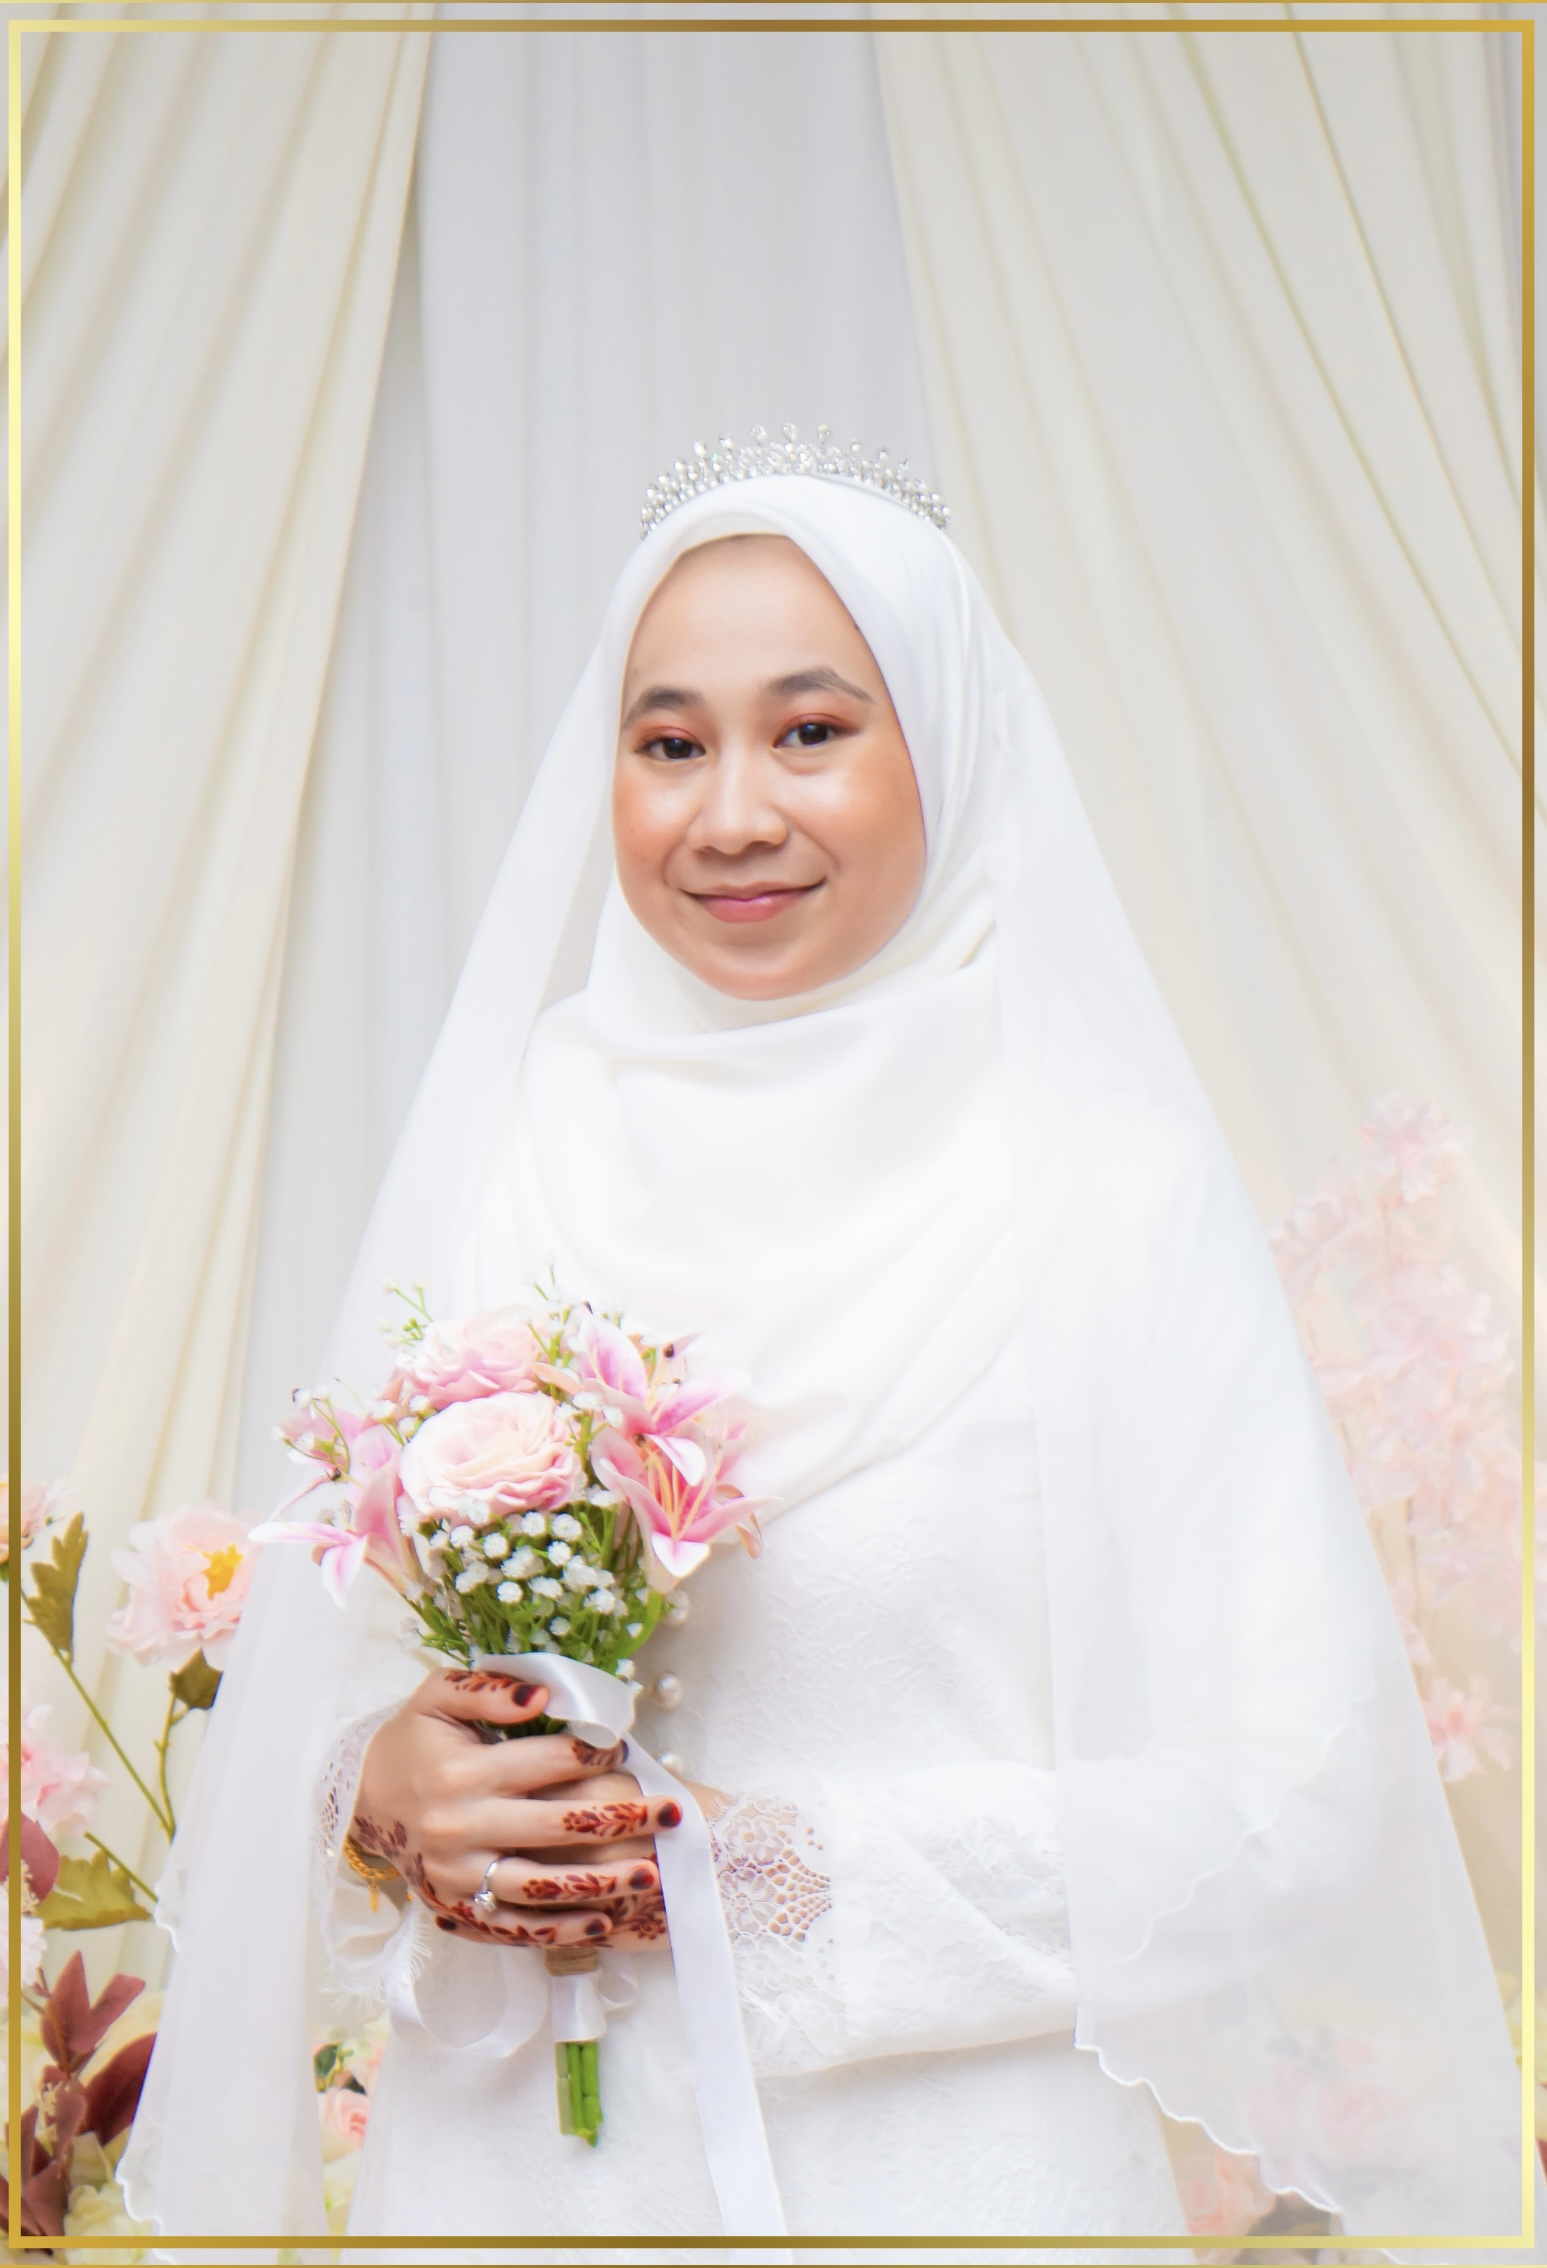
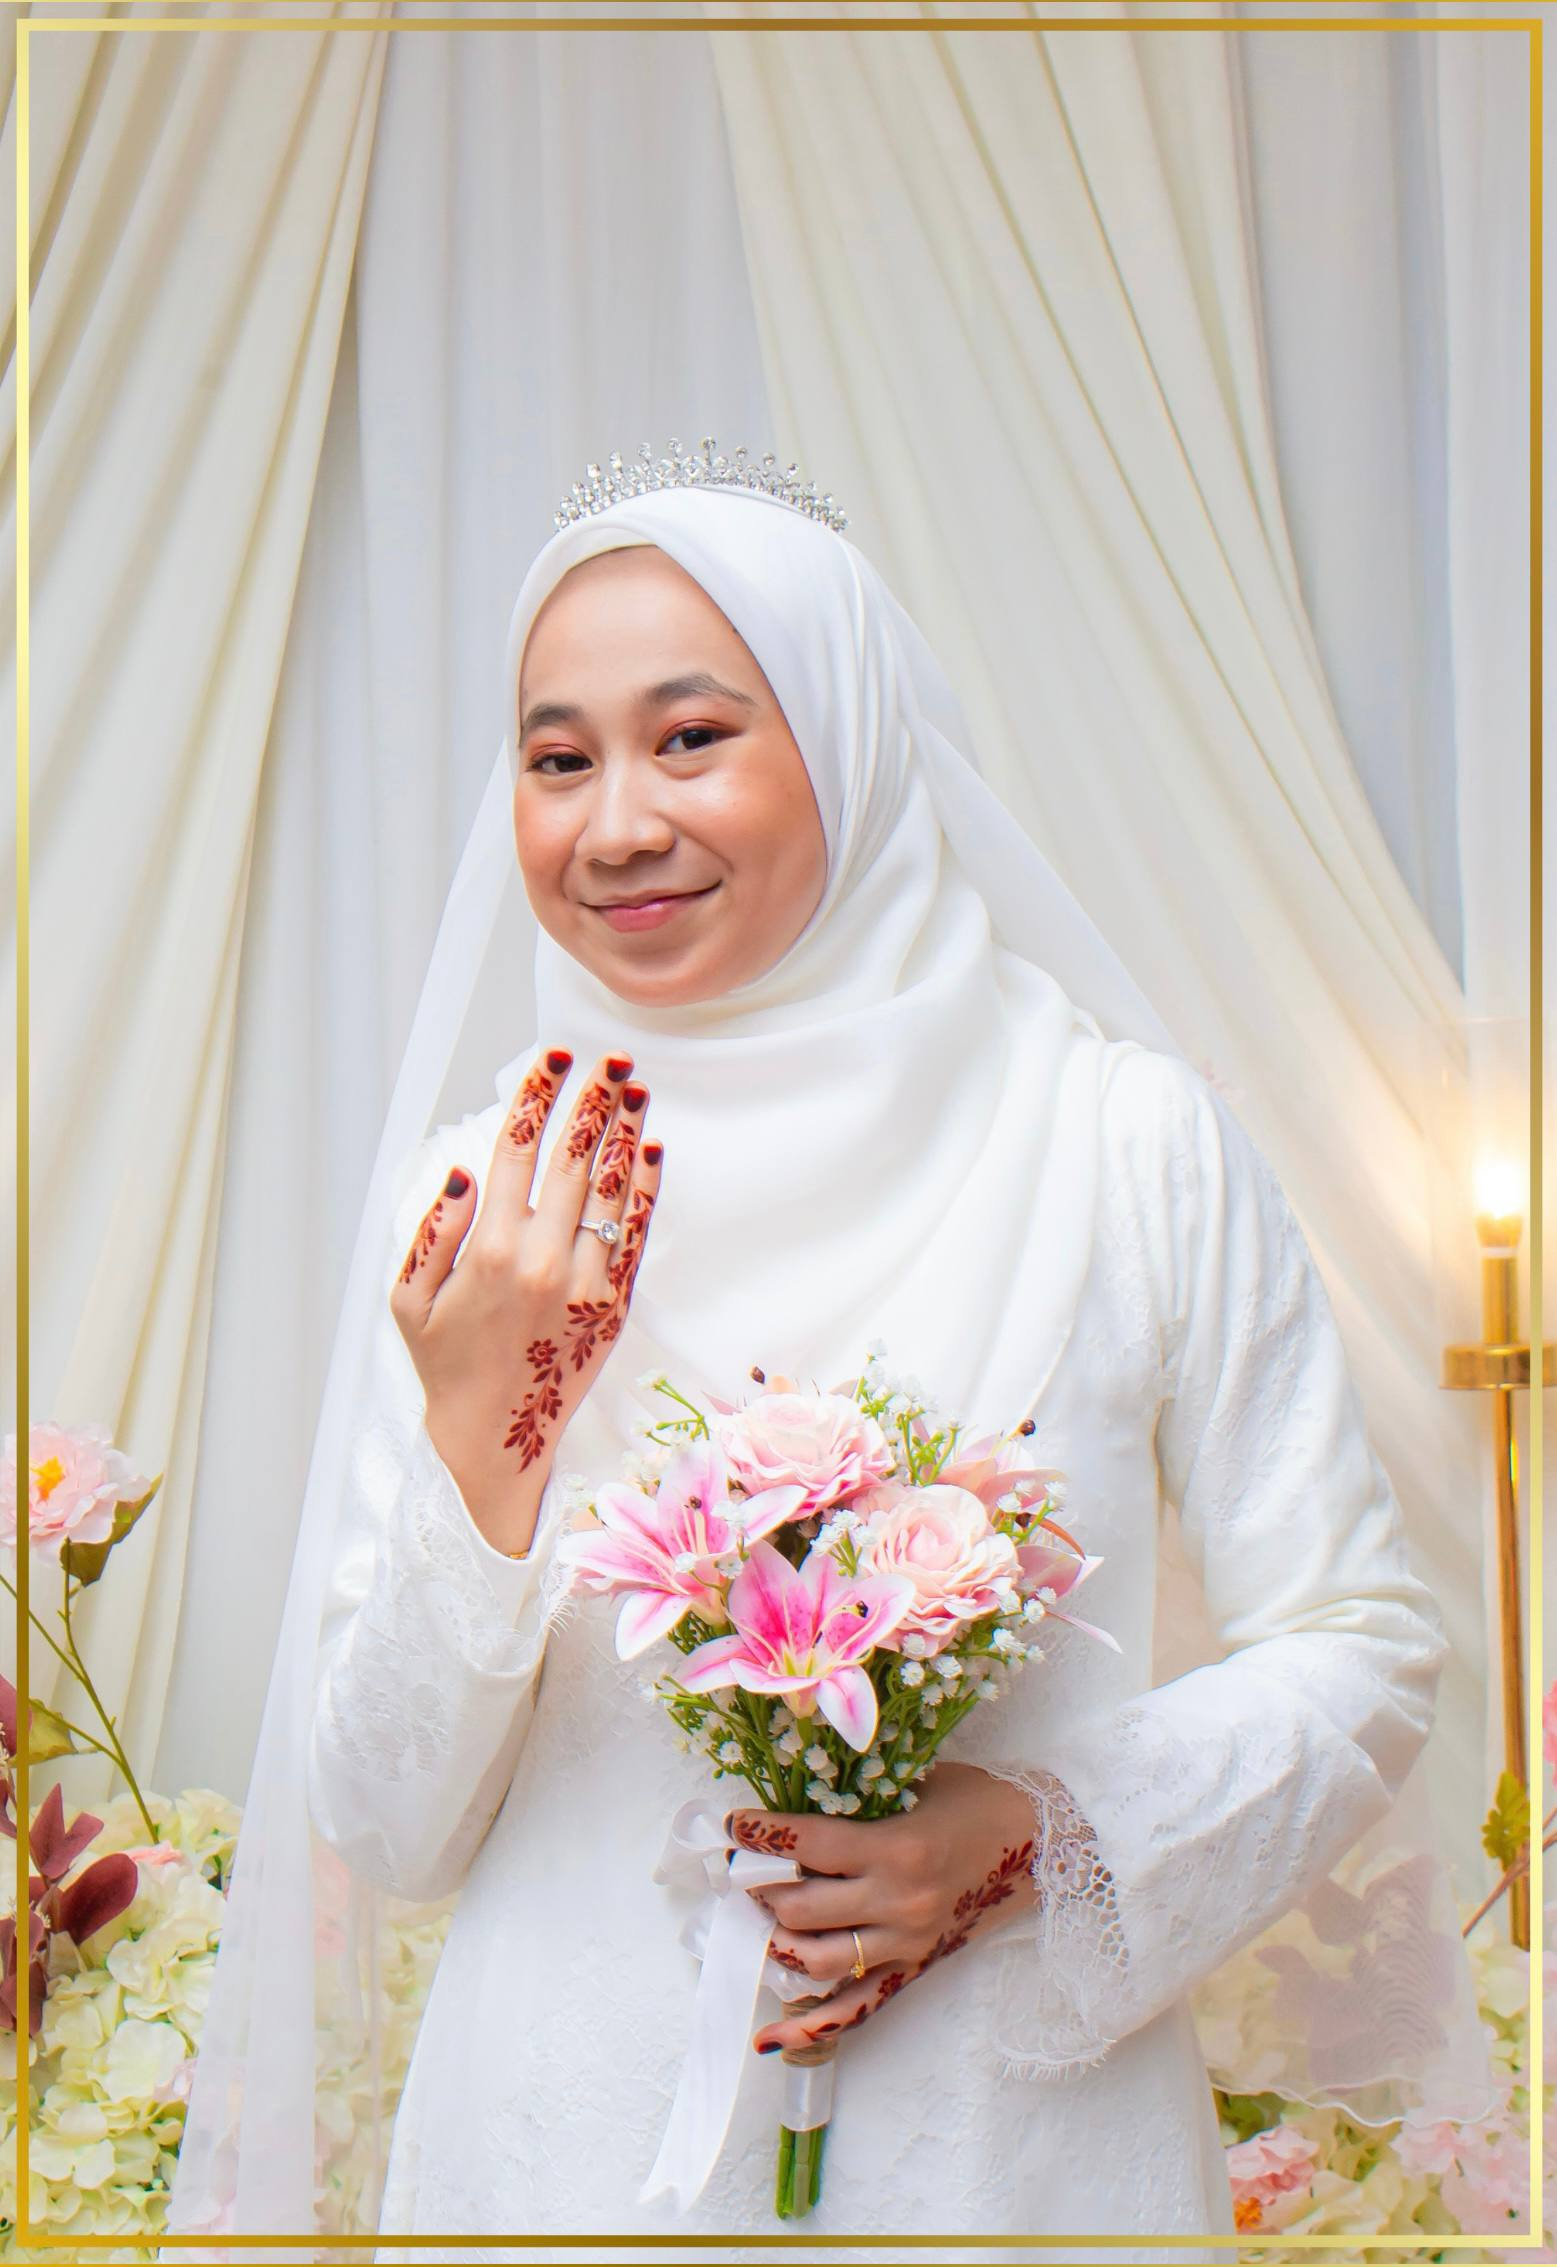
change image

diff --git a/resources/views/card.blade.php b/resources/views/card.blade.php
@@ -149,10 +149,10 @@ Serta Keluarga ke Majlis Perkahwinan anakanda kami</p>
 
             <img src="/images/palang.png" class="invitation-img palang animate">
 
-            <section class="section couple-profile">
+            <section class="section couple-profile animate">
                 <h3 class="section-title animate">Pengantin</h3>
 
-                <div class="couple-grid">
+                <div class="couple-grid animate">
                     <div class="person-card animate">
                         <div class="person-image-wrap">
                             <img src="\images\DINA.JPG" alt="Groom" class="person-image">
@@ -263,10 +263,10 @@ Serta Keluarga ke Majlis Perkahwinan anakanda kami</p>
                         <img src="\images\IMG_7700.JPG" alt="Gallery 1">
                     </div>
                     <div class="gallery-item animate">
-                        <img src="\images\IMG_7701.JPG" alt="Gallery 2">
+                        <img src="\images\dina pegang bunga.JPG" alt="Gallery 2">
                     </div>
                     <div class="gallery-item animate">
-                        <img src="\images\IMG_7598.JPG" alt="Gallery 3">
+                        <img src="\images\gelang.JPG" alt="Gallery 3">
                     </div>
                     <div class="gallery-item animate">
                         <img src="\images\IMG_7605.JPG" alt="Gallery 4">
